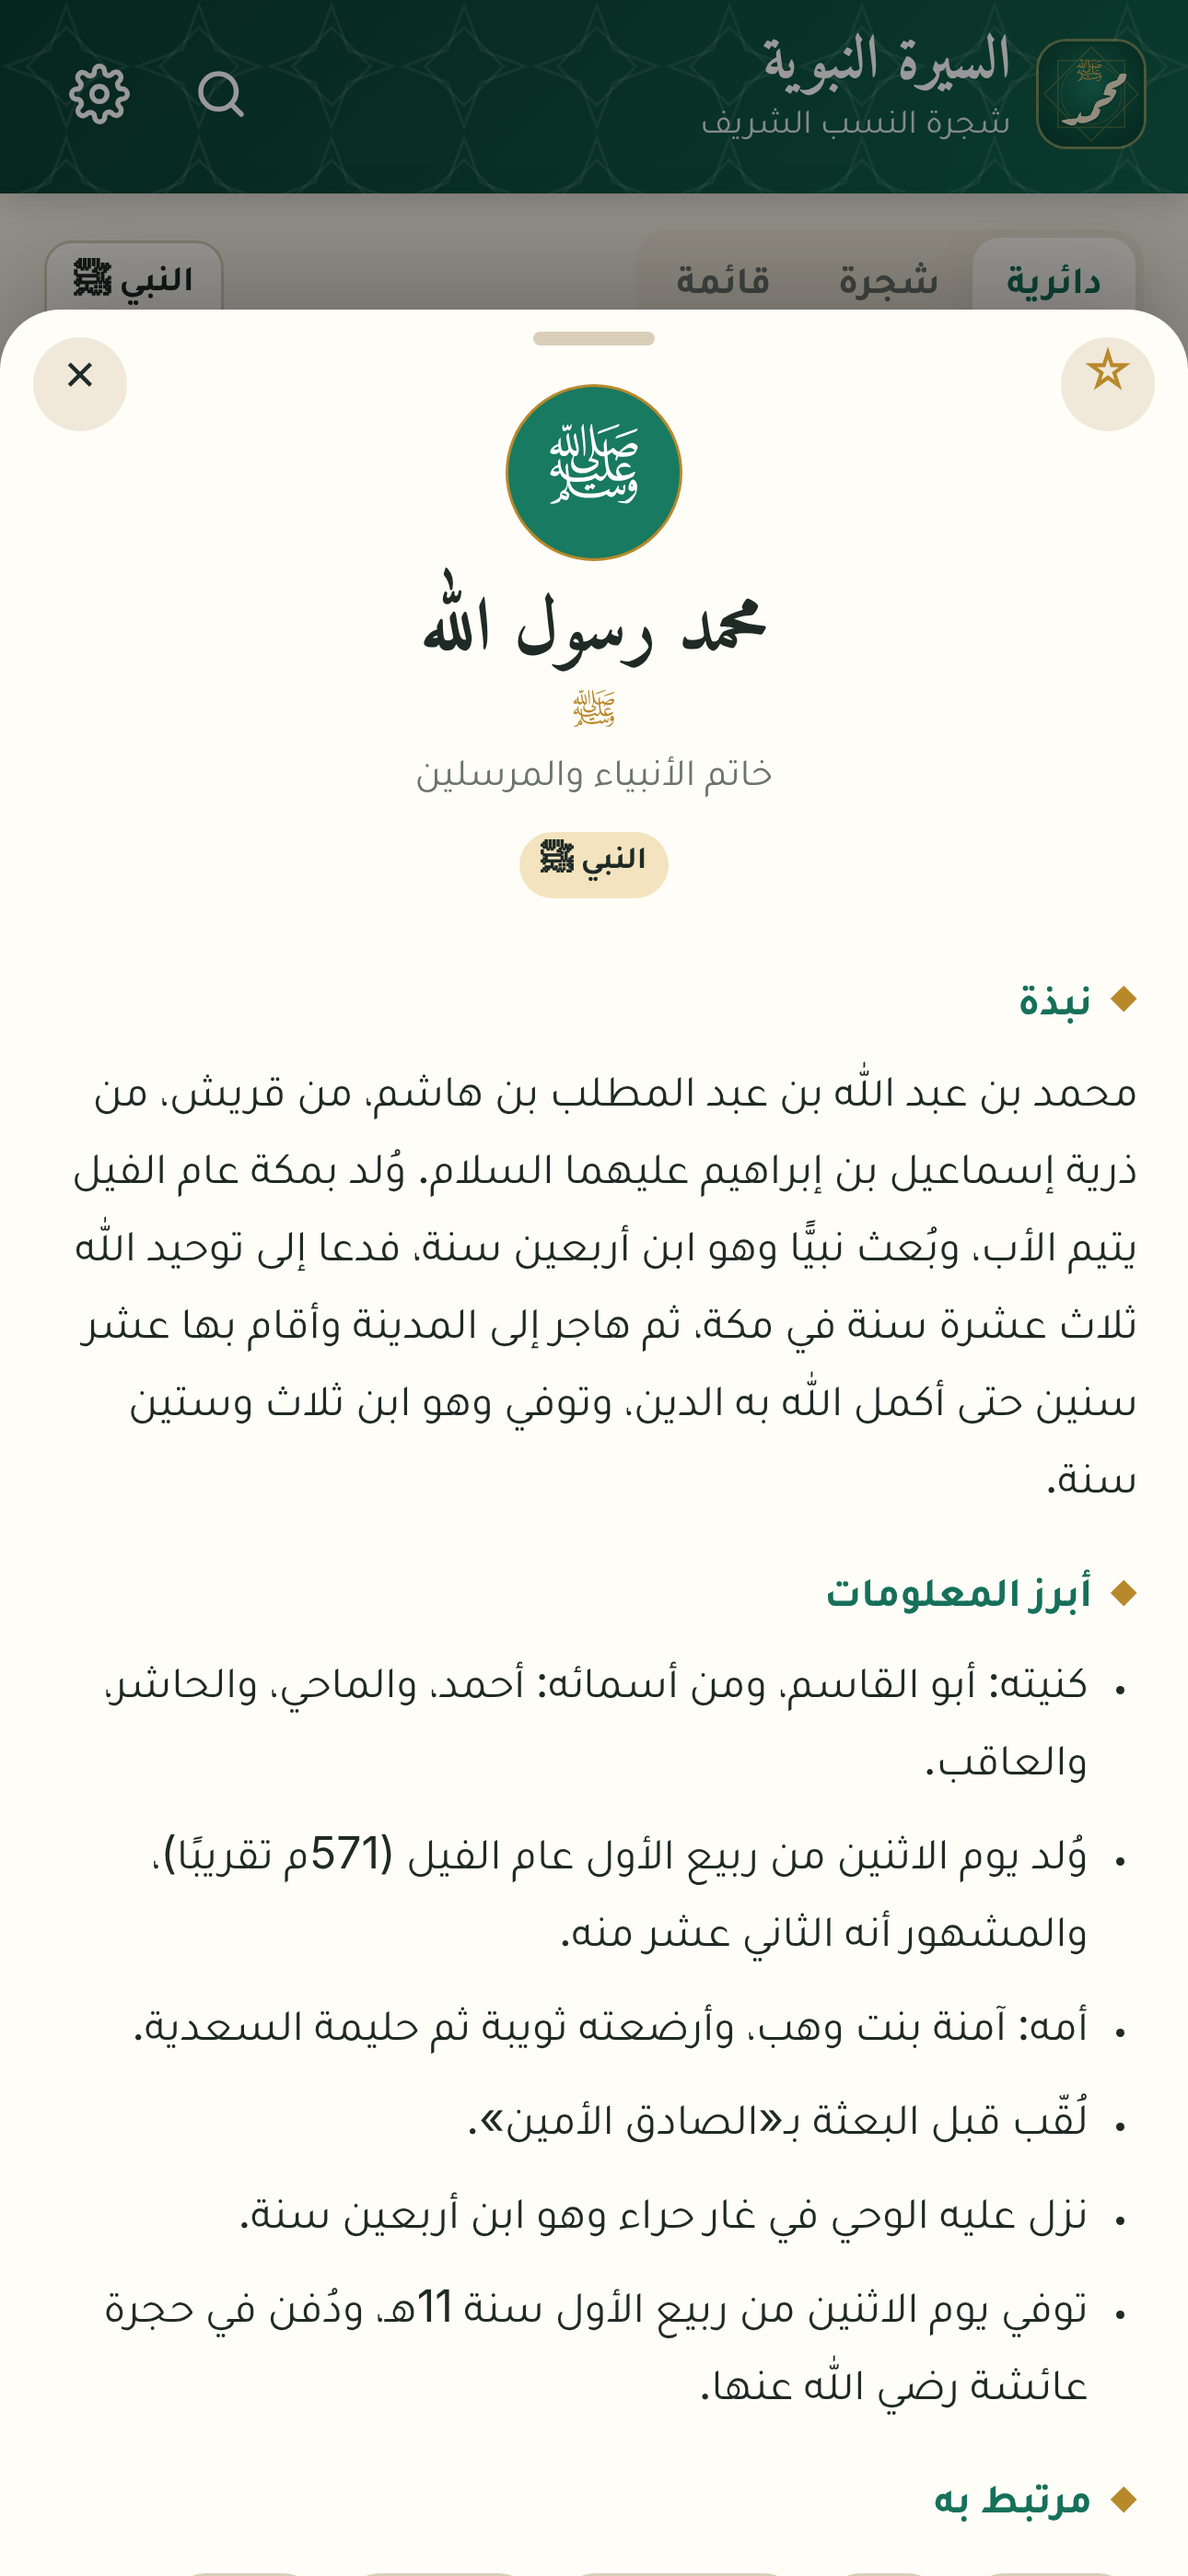
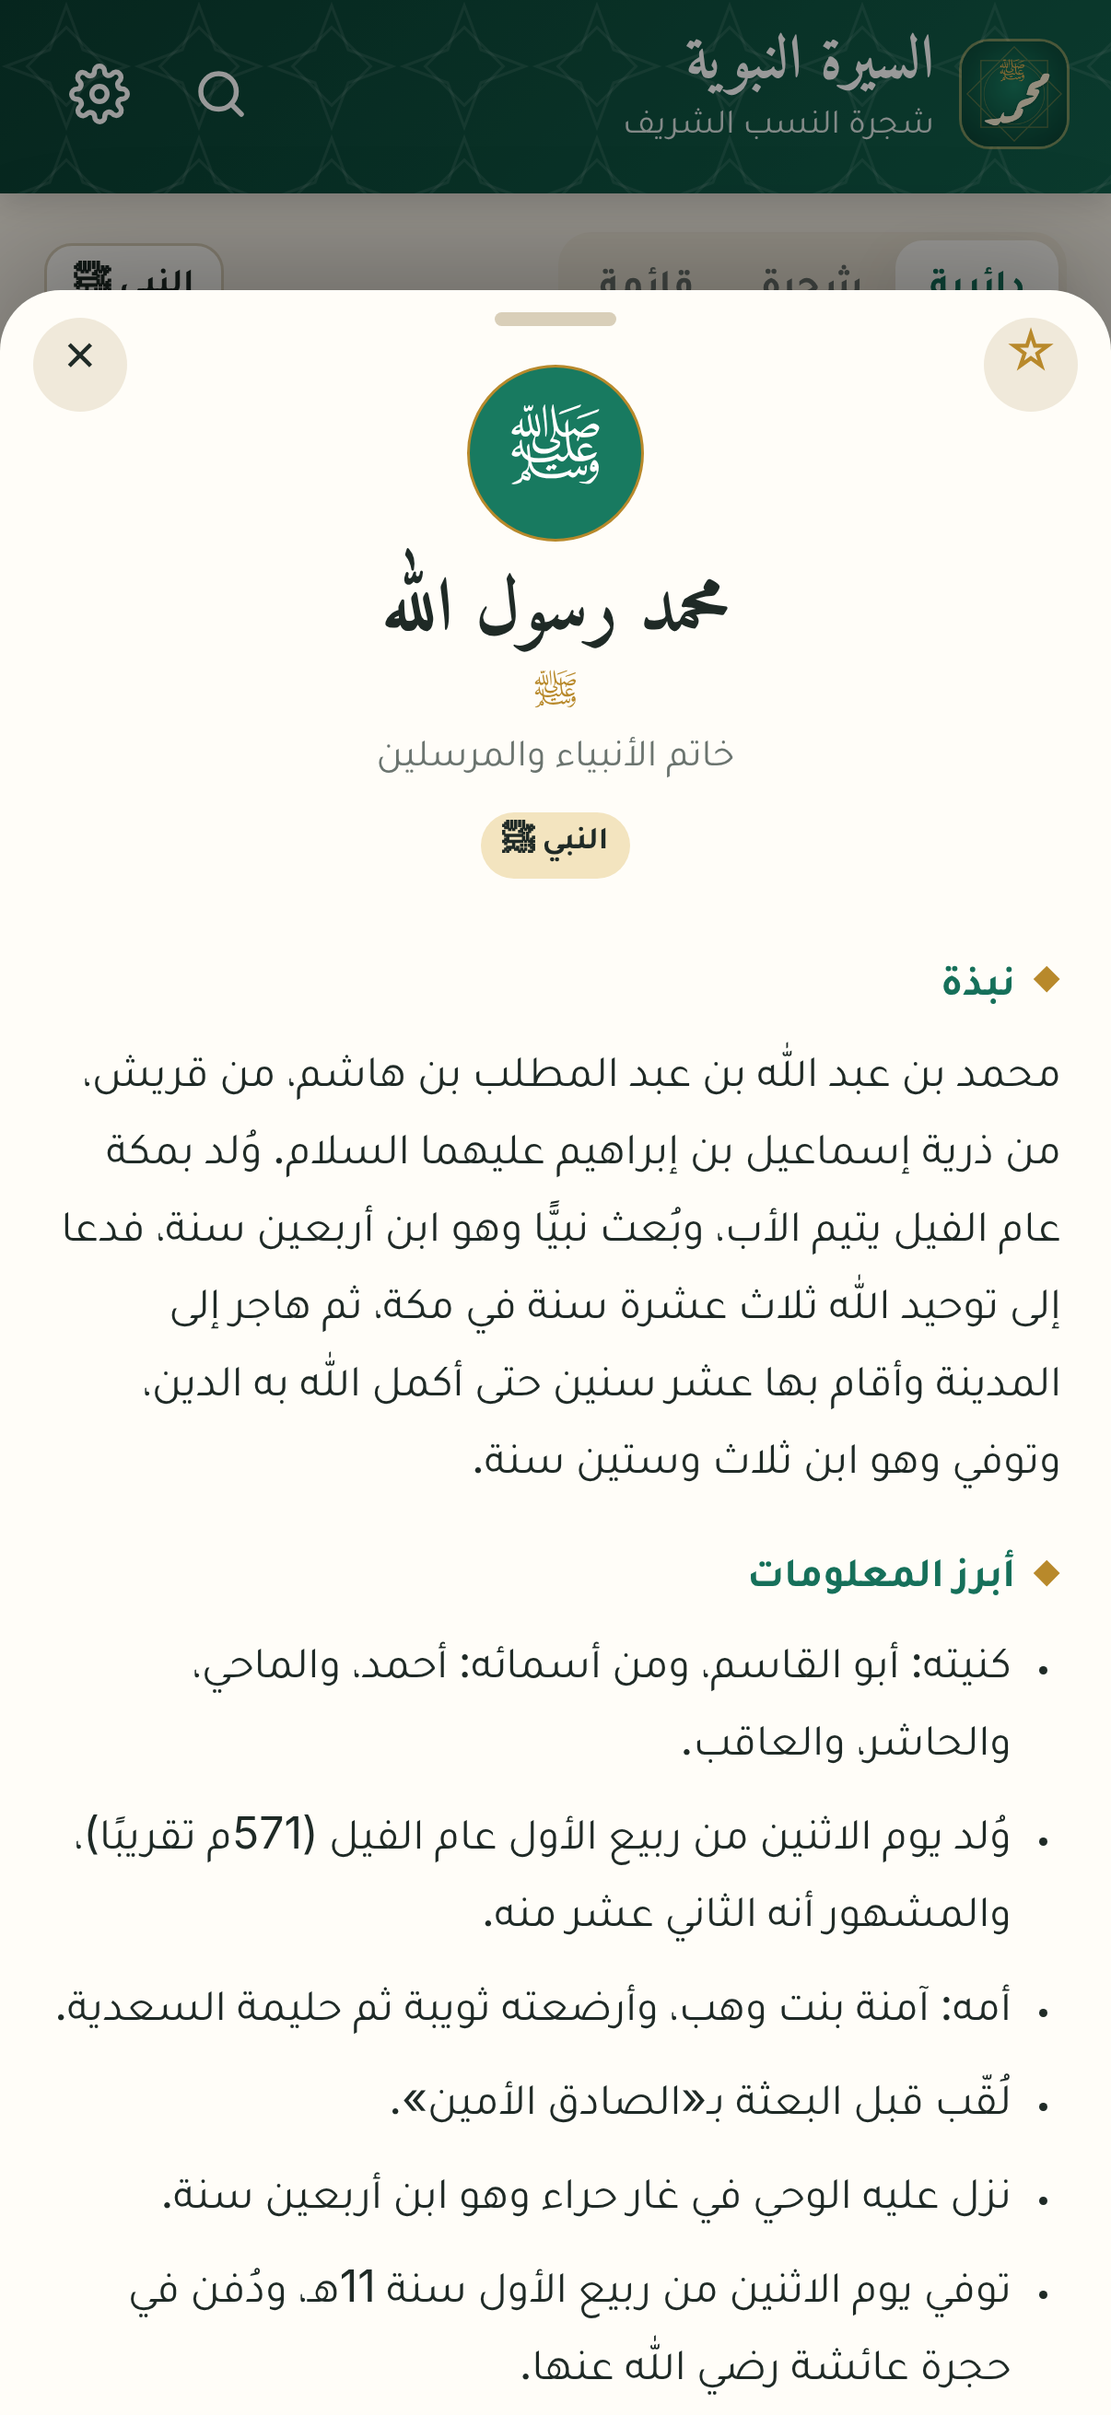
App Store screenshots at 1206x2622 (iPhone with Dynamic Island)
App Store Connect's new product page rejects 1290x2796; it accepts
1179x2556 or 1206x2622 for the iPhone screenshot slot.

Claude-Session: https://claude.ai/code/session_01KJ5BoRaNAf5zhUwMQGBpGB

diff --git a/mobile/scripts/make-store-assets.js b/mobile/scripts/make-store-assets.js
@@ -61,7 +61,7 @@ const FONTS = `
   await hd.evaluate(() => document.fonts.ready);
   await hd.screenshot({ path: path.join(OUT, "appstore-header-3840x1646.png") });
 
-  // 3) لقطات الشاشة: Google Play بمقاس 1080×1920، و App Store (آيفون 6.9") بمقاس 1290×2796
+  // 3) لقطات الشاشة: Google Play بمقاس 1080×1920، و App Store (iPhone with Dynamic Island) بمقاس 1206×2622
   async function shots(dir, width, height) {
     fs.mkdirSync(path.join(OUT, dir), { recursive: true });
     const ctx = await b.newContext({ viewport: { width, height }, deviceScaleFactor: 3, isMobile: true, hasTouch: true });
@@ -84,7 +84,7 @@ const FONTS = `
     await ctx.close();
   }
   await shots("screenshots", 360, 640);
-  await shots("ios-screenshots", 430, 932);
+  await shots("ios-screenshots", 402, 874); // 1206×2622 (iPhone with Dynamic Island)
   await b.close();
   console.log("store assets written to", OUT);
 })();

diff --git a/mobile/store/APP-STORE.md b/mobile/store/APP-STORE.md
@@ -7,7 +7,8 @@
 
 | المطلوب في App Store Connect | الجاهز |
 |---|---|
-| Screenshots (iPhone 6.9") | `ios-screenshots/*.png`، 8 صور مقاس 1290×2796 |
+| Screenshots (iPhone with Dynamic Island) | `ios-screenshots/*.png`، 8 صور مقاس 1206×2622 |
+| Header (اختياري) | `appstore-header-3840x1646.png` |
 | Privacy Policy URL | `https://mohamedfouadtaha-png.github.io/fouad/seerah/privacy/` |
 | Support URL | `https://mohamedfouadtaha-png.github.io/fouad/seerah/support/` |
 
